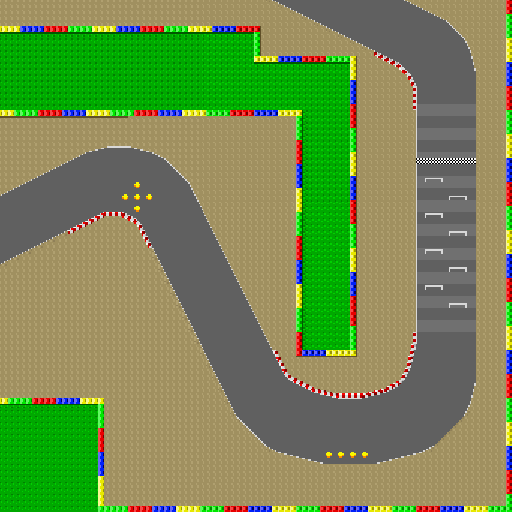
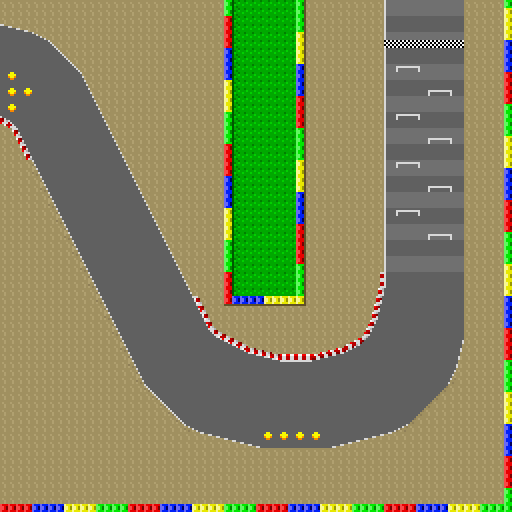
1024x1024 map

diff --git a/source/gameplay.c b/source/gameplay.c
@@ -4,8 +4,13 @@
 #include "context.h"
 #include "game_types.h"
 #include "scorching_sands_TL.h"
+#include "scorching_sands_TC.h"
 #include "scorching_sands_TR.h"
+#include "scorching_sands_ML.h"
+#include "scorching_sands_MC.h"
+#include "scorching_sands_MR.h"
 #include "scorching_sands_BL.h"
+#include "scorching_sands_BC.h"
 #include "scorching_sands_BR.h"
 
 //=============================================================================
@@ -15,21 +20,25 @@ static int scrollX = 0;
 static int scrollY = 0;
 static const int SCROLL_SPEED = 2;
 
-// Map bounds for 768x768 with overlapping quadrants
-// With 256px overlap, effective range is 768-256 = 512 in each direction
-static const int MAX_SCROLL_X = 512;
-static const int MAX_SCROLL_Y = 512;
+// Map bounds for 1024x1024 with overlapping quadrants
+// With 256px offset between quadrants, effective range is 512 in each direction
+static const int MAX_SCROLL_X = 768;
+static const int MAX_SCROLL_Y = 832;
 
-// Overlap boundaries (256 pixels from each edge of 512)
-static const int OVERLAP_START = 256;  // When to start transition
-static const int OVERLAP_END = 512;    // End of current quadrant
+// Quadrant boundaries (256 pixels between each quadrant start)
+static const int QUAD_OFFSET = 256;  // Distance between quadrant starting positions
 
-// Track which quadrants are currently loaded
+// Track which quadrant is currently loaded
 typedef enum {
-    QUAD_TL = 0,
-    QUAD_TR = 1,
-    QUAD_BL = 2,
-    QUAD_BR = 3
+    QUAD_TL = 0,  // Top-Left
+    QUAD_TC = 1,  // Top-Center
+    QUAD_TR = 2,  // Top-Right
+    QUAD_ML = 3,  // Middle-Left
+    QUAD_MC = 4,  // Middle-Center
+    QUAD_MR = 5,  // Middle-Right
+    QUAD_BL = 6,  // Bottom-Left
+    QUAD_BC = 7,  // Bottom-Center
+    QUAD_BR = 8   // Bottom-Right
 } QuadrantID;
 
 static QuadrantID currentQuadrant = QUAD_TL;
@@ -124,15 +133,40 @@ static void loadQuadrant(QuadrantID quad) {
             map = scorching_sands_TLMap;
             tilesLen = scorching_sands_TLTilesLen;
             break;
+        case QUAD_TC:
+            tiles = scorching_sands_TCTiles;
+            map = scorching_sands_TCMap;
+            tilesLen = scorching_sands_TCTilesLen;
+            break;
         case QUAD_TR:
             tiles = scorching_sands_TRTiles;
             map = scorching_sands_TRMap;
             tilesLen = scorching_sands_TRTilesLen;
             break;
+        case QUAD_ML:
+            tiles = scorching_sands_MLTiles;
+            map = scorching_sands_MLMap;
+            tilesLen = scorching_sands_MLTilesLen;
+            break;
+        case QUAD_MC:
+            tiles = scorching_sands_MCTiles;
+            map = scorching_sands_MCMap;
+            tilesLen = scorching_sands_MCTilesLen;
+            break;
+        case QUAD_MR:
+            tiles = scorching_sands_MRTiles;
+            map = scorching_sands_MRMap;
+            tilesLen = scorching_sands_MRTilesLen;
+            break;
         case QUAD_BL:
             tiles = scorching_sands_BLTiles;
             map = scorching_sands_BLMap;
             tilesLen = scorching_sands_BLTilesLen;
+            break;
+        case QUAD_BC:
+            tiles = scorching_sands_BCTiles;
+            map = scorching_sands_BCMap;
+            tilesLen = scorching_sands_BCTilesLen;
             break;
         case QUAD_BR:
             tiles = scorching_sands_BRTiles;
@@ -154,28 +188,33 @@ static void loadQuadrant(QuadrantID quad) {
 }
 
 static QuadrantID determineQuadrant(int x, int y) {
-    // Check if we're in overlap regions and should transition
-    // Overlap starts at 256px (middle of each quadrant)
+    // Quadrants transition at 256px intervals
+    // At x=0-255: use left column (TL/ML/BL)
+    // At x=256-511: use center column (TC/MC/BC)  
+    // At x=512+: use right column (TR/MR/BR)
     
-    // Horizontal position determines left vs right quadrants
-    bool inRightOverlap = (x >= OVERLAP_START);
+    int quadX = 0;
+    int quadY = 0;
     
-    // Vertical position determines top vs bottom quadrants
-    bool inBottomOverlap = (y >= OVERLAP_START);
+    // Determine horizontal quadrant (transitions at x=256 and x=512)
+    if (x < 256) {
+        quadX = 0;  // Left column
+    } else if (x < 512) {
+        quadX = 1;  // Center column (starts at overlap point)
+    } else {
+        quadX = 2;  // Right column (starts at second overlap point)
+    }
     
-    // Determine which quadrant to load based on position
-    if (!inRightOverlap && !inBottomOverlap) {
-        return QUAD_TL;  // Top-left region (0-255, 0-255)
+    // Determine vertical quadrant (transitions at y=256 and y=512)
+    if (y < 256) {
+        quadY = 0;  // Top row
+    } else if (y < 512) {
+        quadY = 1;  // Middle row (starts at overlap point)
+    } else {
+        quadY = 2;  // Bottom row (starts at second overlap point)
     }
-    else if (inRightOverlap && !inBottomOverlap) {
-        return QUAD_TR;  // Top-right region (256-512, 0-255)
-    }
-    else if (!inRightOverlap && inBottomOverlap) {
-        return QUAD_BL;  // Bottom-left region (0-255, 256-512)
-    }
-    else {
-        return QUAD_BR;  // Bottom-right region (256-512, 256-512)
-    }
+    
+    return (QuadrantID)(quadY * 3 + quadX);
 }
 
 static void updateScroll(void) {
@@ -189,32 +228,21 @@ static void updateScroll(void) {
     }
     
     // Calculate local scroll offset within current quadrant
-    // The offset into the currently loaded 512x512 quadrant
+    // Each quadrant starts at a different position in the 1024x1024 map:
+    // TL:(0,0), TC:(256,0), TR:(512,0)
+    // ML:(0,256), MC:(256,256), MR:(512,256)  
+    // BL:(0,512), BC:(256,512), BR:(512,512)
+    
     int localX = scrollX;
     int localY = scrollY;
     
-    // Adjust scroll position based on which quadrant we're in
-    // Since quadrants overlap by 256px, we need to offset appropriately
-    switch(currentQuadrant) {
-        case QUAD_TL:
-            // TL starts at (0,0) in the 768x768 map
-            // No adjustment needed
-            break;
-        case QUAD_TR:
-            // TR starts at (256,0) in the 768x768 map
-            // When scrollX >= 256, we want to show from the beginning of TR
-            localX = scrollX - OVERLAP_START;
-            break;
-        case QUAD_BL:
-            // BL starts at (0,256) in the 768x768 map
-            localY = scrollY - OVERLAP_START;
-            break;
-        case QUAD_BR:
-            // BR starts at (256,256) in the 768x768 map
-            localX = scrollX - OVERLAP_START;
-            localY = scrollY - OVERLAP_START;
-            break;
-    }
+    // Determine which column (0, 1, or 2) and row (0, 1, or 2)
+    int col = currentQuadrant % 3;
+    int row = currentQuadrant / 3;
+    
+    // Subtract the quadrant's starting position in the original 1024x1024 image
+    localX = scrollX - (col * QUAD_OFFSET);
+    localY = scrollY - (row * QUAD_OFFSET);
     
     BG_OFFSET[0].x = localX;
     BG_OFFSET[0].y = localY;
